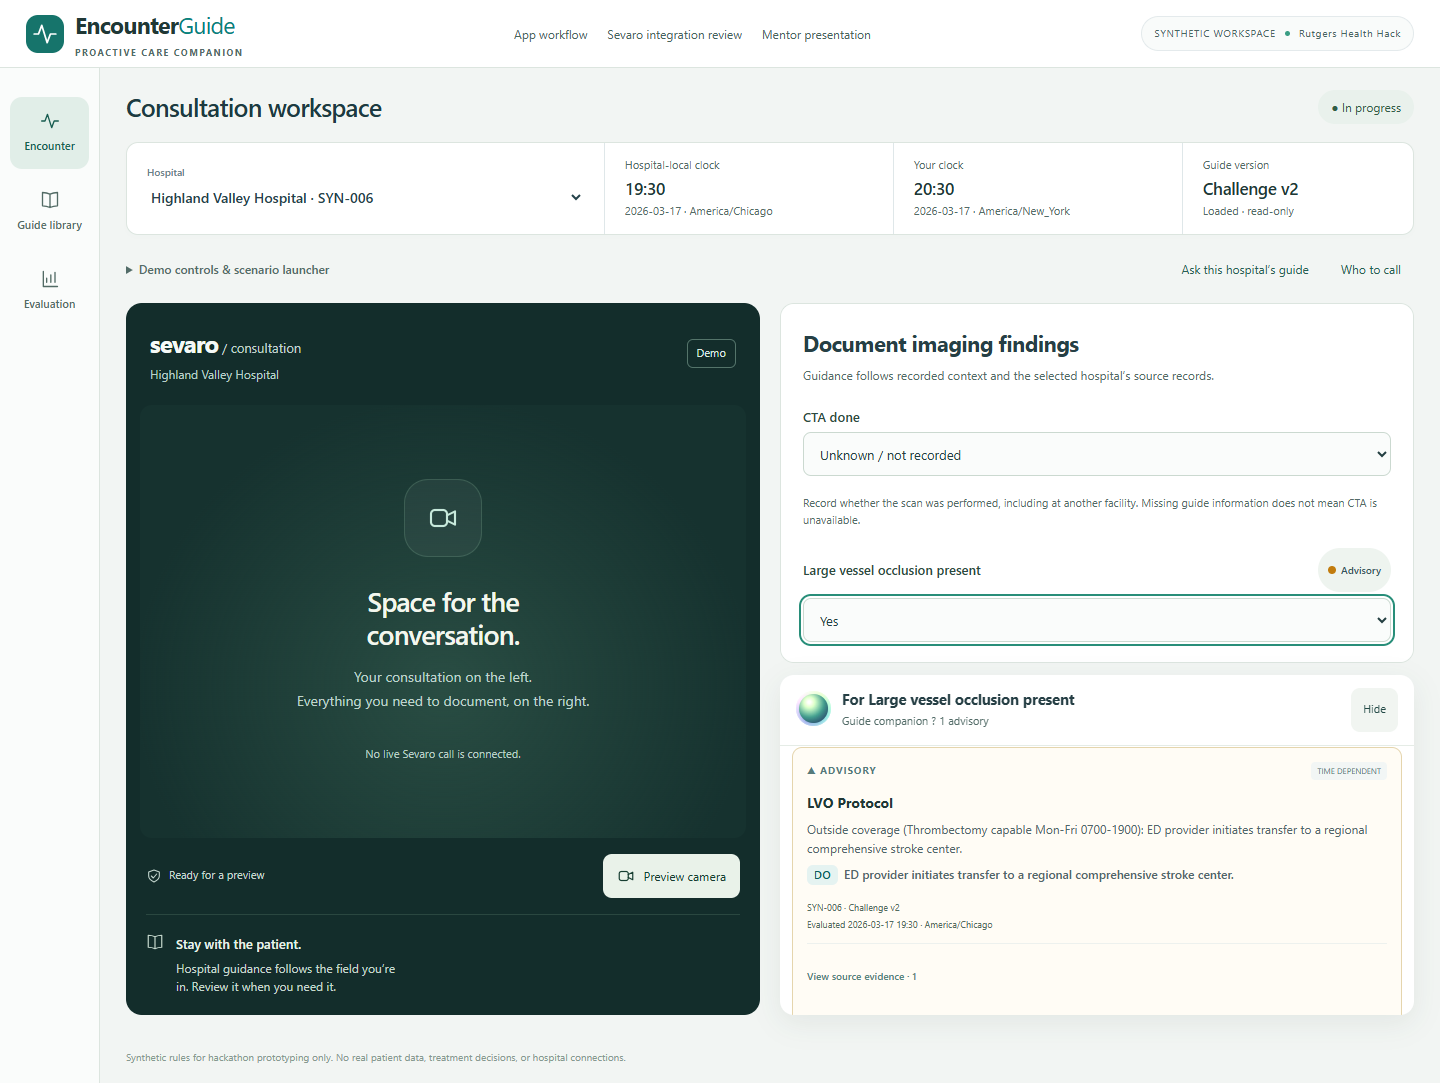
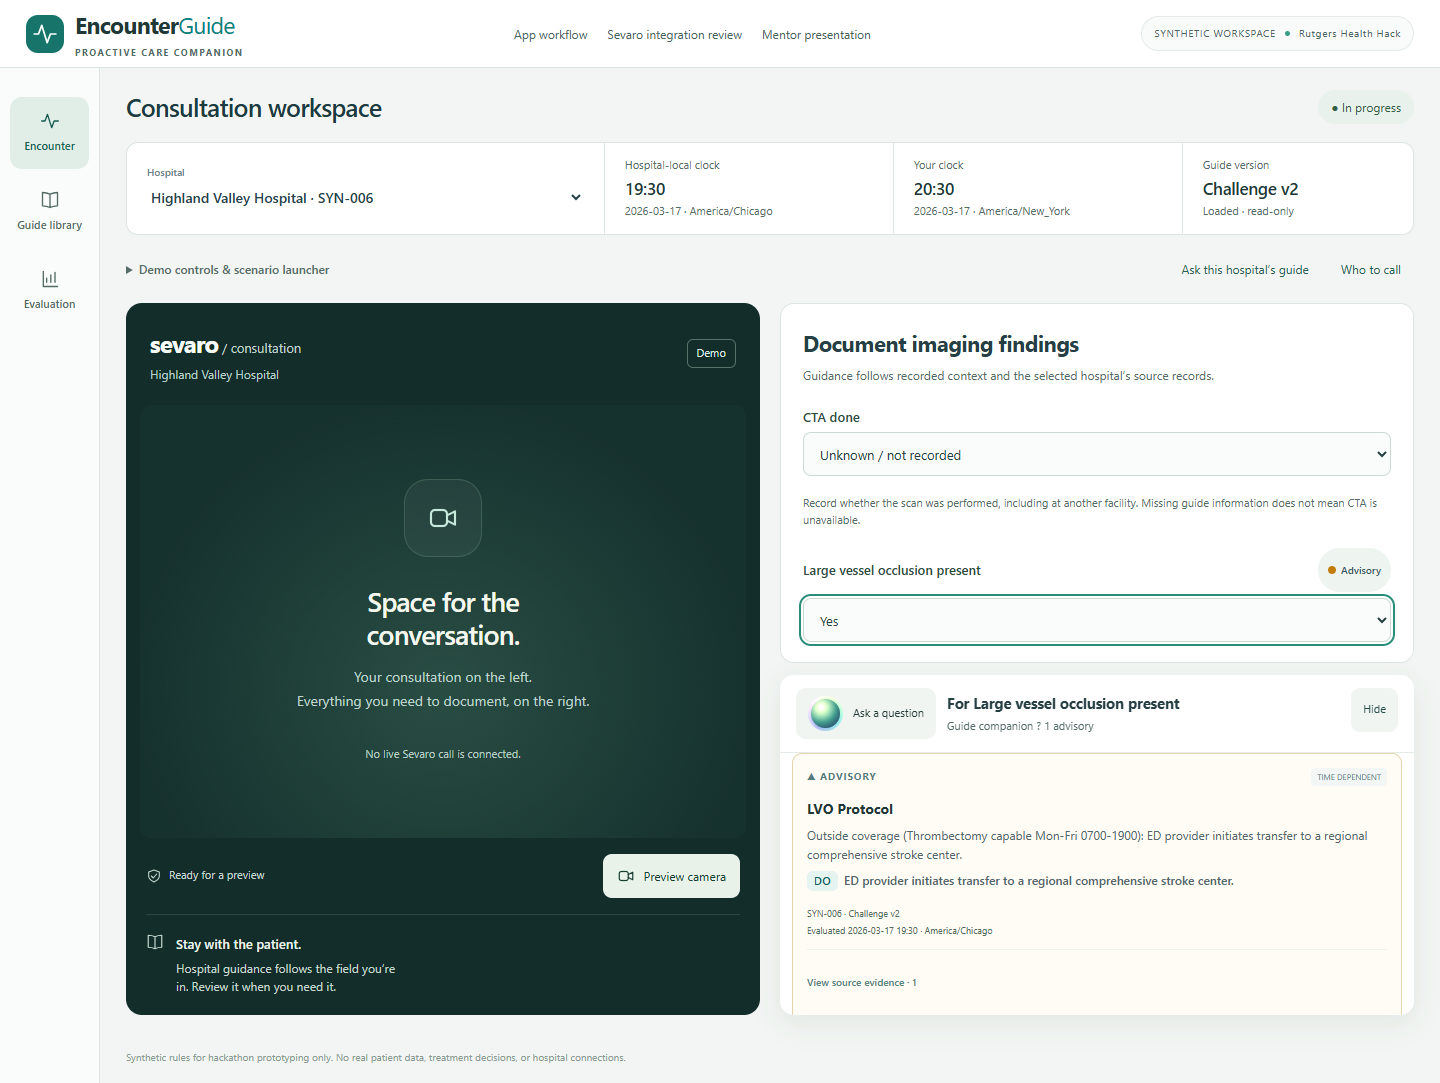
Fix form scroll handoff and consistent companion chat

Changed region(s): [[0.5312, 0.6399, 0.9688, 0.9141]]

diff --git a/src/guidance/NudgeDock.tsx b/src/guidance/NudgeDock.tsx
@@ -15,6 +15,7 @@ import type { NudgeDockProps } from "./types";
 // would be trained away inside a day.
 
 export function NudgeDock({
+  onOpenChat,
   results,
   focusedFieldId,
   fieldLabels,
@@ -120,7 +121,14 @@ export function NudgeDock({
         <section className="dock-panel" data-testid="dock-panel">
           <header className="dock-header">
             <div className="dock-title-group">
-              <AssistantOrb small />
+              <button
+                className="dock-chat-launcher"
+                onClick={onOpenChat}
+                aria-label="Open guide companion"
+              >
+                <AssistantOrb small />
+                <span>Ask a question</span>
+              </button>
               <div>
                 <p className="eyebrow">
                   <span className="live-dot" /> HOSPITAL GUIDANCE ·{" "}
@@ -130,7 +138,7 @@ export function NudgeDock({
                   {focusedLabel ? `For ${focusedLabel}` : "Hospital guidance"}
                 </h2>
                 <span className="dock-subtitle">
-                  Guide companion ? {summary.label}
+                  Guide companion: {summary.label}
                 </span>
               </div>
             </div>
@@ -169,21 +177,30 @@ export function NudgeDock({
           </div>
         </section>
       ) : (
-        <button
-          ref={pillRef}
-          className={`dock-pill ${summary.tier}`}
-          onClick={() => dispatch({ type: "TOGGLE" })}
-          data-testid="dock-pill"
-          aria-expanded={false}
-        >
-          <AssistantOrb />
-          <span className="dock-pill-count">{summary.count}</span>
-          {/* Tier is said in words as well as shown in colour. */}
-          <span className="dock-pill-copy">
-            <strong>Guide companion</strong>
-            <span className="dock-pill-label">{summary.label}</span>
-          </span>
-        </button>
+        <div className="dock-launchers">
+          <button
+            className="secondary dock-review"
+            onClick={() => dispatch({ type: "TOGGLE" })}
+            aria-label="Review hospital guidance"
+          >
+            Review guidance
+          </button>
+          <button
+            ref={pillRef}
+            className={`dock-pill ${summary.tier}`}
+            onClick={onOpenChat}
+            data-testid="dock-pill"
+            aria-label="Open guide companion"
+          >
+            <AssistantOrb />
+            <span className="dock-pill-count">{summary.count}</span>
+            {/* Tier is said in words as well as shown in colour. */}
+            <span className="dock-pill-copy">
+              <strong>Guide companion</strong>
+              <span className="dock-pill-label">{summary.label}</span>
+            </span>
+          </button>
+        </div>
       )}
     </aside>
   );

diff --git a/tests/e2e/consultation.spec.ts b/tests/e2e/consultation.spec.ts
@@ -176,3 +176,76 @@ test("local preview requests no microphone and stops tracks on stop and navigati
     ),
   ).toBe("ended");
 });
+
+test("wheel scrolls the form first, then hands off to the page at both edges", async ({
+  page,
+}) => {
+  await page.getByRole("button", { name: "Imaging", exact: false }).click();
+  const form = page.locator(".caselog");
+  await form.evaluate((e) => {
+    e.scrollTop = 0;
+  });
+  await page.evaluate(() => window.scrollTo(0, 0));
+  const box = (await form.boundingBox())!;
+  await page.mouse.move(box.x + box.width - 35, box.y + 120);
+  await page.mouse.wheel(0, 100);
+  await expect.poll(() => form.evaluate((e) => e.scrollTop)).toBeGreaterThan(0);
+  expect(await page.evaluate(() => window.scrollY)).toBe(0);
+  await form.evaluate((e) => {
+    e.scrollTop = e.scrollHeight;
+  });
+  await page.mouse.wheel(0, 180);
+  await expect
+    .poll(() => page.evaluate(() => window.scrollY))
+    .toBeGreaterThan(0);
+  await form.evaluate((e) => {
+    e.scrollTop = 0;
+  });
+  const pageY = await page.evaluate(() => window.scrollY);
+  const moved = (await form.boundingBox())!;
+  await page.mouse.move(
+    moved.x + moved.width - 35,
+    Math.max(80, moved.y + 120),
+  );
+  await page.mouse.wheel(0, -100);
+  await expect
+    .poll(() => page.evaluate(() => window.scrollY))
+    .toBeLessThan(pageY);
+});
+
+test("companion opens usable chat on every step, with or without guidance", async ({
+  page,
+}) => {
+  for (const step of [
+    "Intake",
+    "History",
+    "Imaging",
+    "Recommendation",
+    "Note",
+    "Sign Off",
+  ]) {
+    await page
+      .getByRole("button", { name: new RegExp(step, "i") })
+      .first()
+      .click();
+    await page
+      .getByRole("button", { name: "Open guide companion", exact: true })
+      .click();
+    const chat = page.getByTestId("chat-panel");
+    await expect(chat.getByRole("textbox")).toBeFocused();
+    await expect(chat.getByRole("textbox")).toBeInViewport();
+    await chat.getByRole("textbox").fill("EEG?");
+    await chat.getByRole("button", { name: "Ask", exact: true }).click();
+    await expect(chat.getByTestId("chat-turn").last()).toContainText("EEG");
+    await chat.getByRole("button", { name: "Close the guide chat" }).click();
+  }
+  await page.getByRole("button", { name: "Imaging", exact: false }).click();
+  await page.getByRole("button", { name: "Review hospital guidance" }).click();
+  await expect(page.getByTestId("dock-panel")).toBeVisible();
+  await page
+    .getByRole("button", { name: "Open guide companion", exact: true })
+    .click();
+  await expect(
+    page.getByTestId("chat-panel").getByRole("textbox"),
+  ).toBeFocused();
+});

diff --git a/src/consultation.css b/src/consultation.css
@@ -374,7 +374,7 @@ main {
   grid-column: 2;
   grid-row: 1;
   overflow: auto;
-  overscroll-behavior: contain;
+  overscroll-behavior: auto;
   min-width: 0;
   min-height: 0;
   max-height: none;
@@ -1112,4 +1112,27 @@ main > footer {
   *::after {
     scroll-behavior: auto !important;
   }
+}
+
+.dock-launchers {
+  display: flex;
+  justify-content: flex-end;
+  align-items: center;
+  gap: 10px;
+  flex-wrap: wrap;
+}
+.dock-chat-launcher {
+  display: inline-flex;
+  align-items: center;
+  gap: 10px;
+  min-height: 44px;
+  border: 0;
+  background: transparent;
+  color: var(--ink);
+  padding: 4px;
+  border-radius: 10px;
+}
+.dock-review {
+  min-height: 44px;
+  border-radius: 12px;
 }

diff --git a/src/guidance/types.ts b/src/guidance/types.ts
@@ -5,6 +5,8 @@ import type { Result } from "../domain";
 // change here needs both owners to agree.
 
 export interface NudgeDockProps {
+  /** Opens unseeded chat from the companion in every dock state. */
+  onOpenChat: () => void;
   /** Already ranked by the engine, most important first. */
   results: Result[];
   /** The caselog field the doctor is in, if any. Its guidance is shown first. */

diff --git a/src/main.tsx b/src/main.tsx
@@ -1149,6 +1149,7 @@ function App() {
                   </button>
                   <GuidanceBoundary key={`dock:${h.id}:${h.version}`}>
                     <NudgeDock
+                      onOpenChat={() => openChat()}
                       results={visible}
                       focusedFieldId={focusedField}
                       fieldLabels={fieldLabels}

diff --git a/docs/PRODUCTION_PROGRESS_REVIEW.md b/docs/PRODUCTION_PROGRESS_REVIEW.md
@@ -50,3 +50,13 @@ Finish the platform, rules-as-data and live AI work above; validate the real hos
 - Browser checks cover equal desktop columns, pre-selection CTA guidance, visible active fields with expanded guidance, focus return, three-part misspelled chat, 390px layout, camera denial, and camera track cleanup on stop/navigation. Camera success uses a synthetic canvas stream, not a physical camera or real call.
 - Screenshots: `reports/consultation-desktop.png`, `reports/consultation-guidance.png`, `reports/consultation-chat.png`, `reports/consultation-mobile.png`.
 - No live-provider evaluation, real video integration, full screen-reader/axe audit, clinician acceptance or hosted release rehearsal is claimed.
+
+## Interaction corrections after user review
+
+| Before | After | Why |
+|---|---|---|
+| Form used scroll containment | Native scroll handoff at both form edges | The form consumes scrolling first; the page continues after it reaches an edge |
+| Companion opened cards when nudges existed, chat otherwise | Companion always opens chat; Review guidance opens the cards | Keeps the agent interaction consistent across all six workflow steps |
+| Expanded guidance had no direct general chat launcher | Clickable orb with Ask a question | Chat remains accessible while reviewing recommendations |
+
+Seven consultation browser checks pass, including wheel input at both scroll boundaries and actual chat submissions from all six steps. Existing CTA anticipation, form visibility, keyboard focus, mobile width and camera lifecycle checks remain passing.
